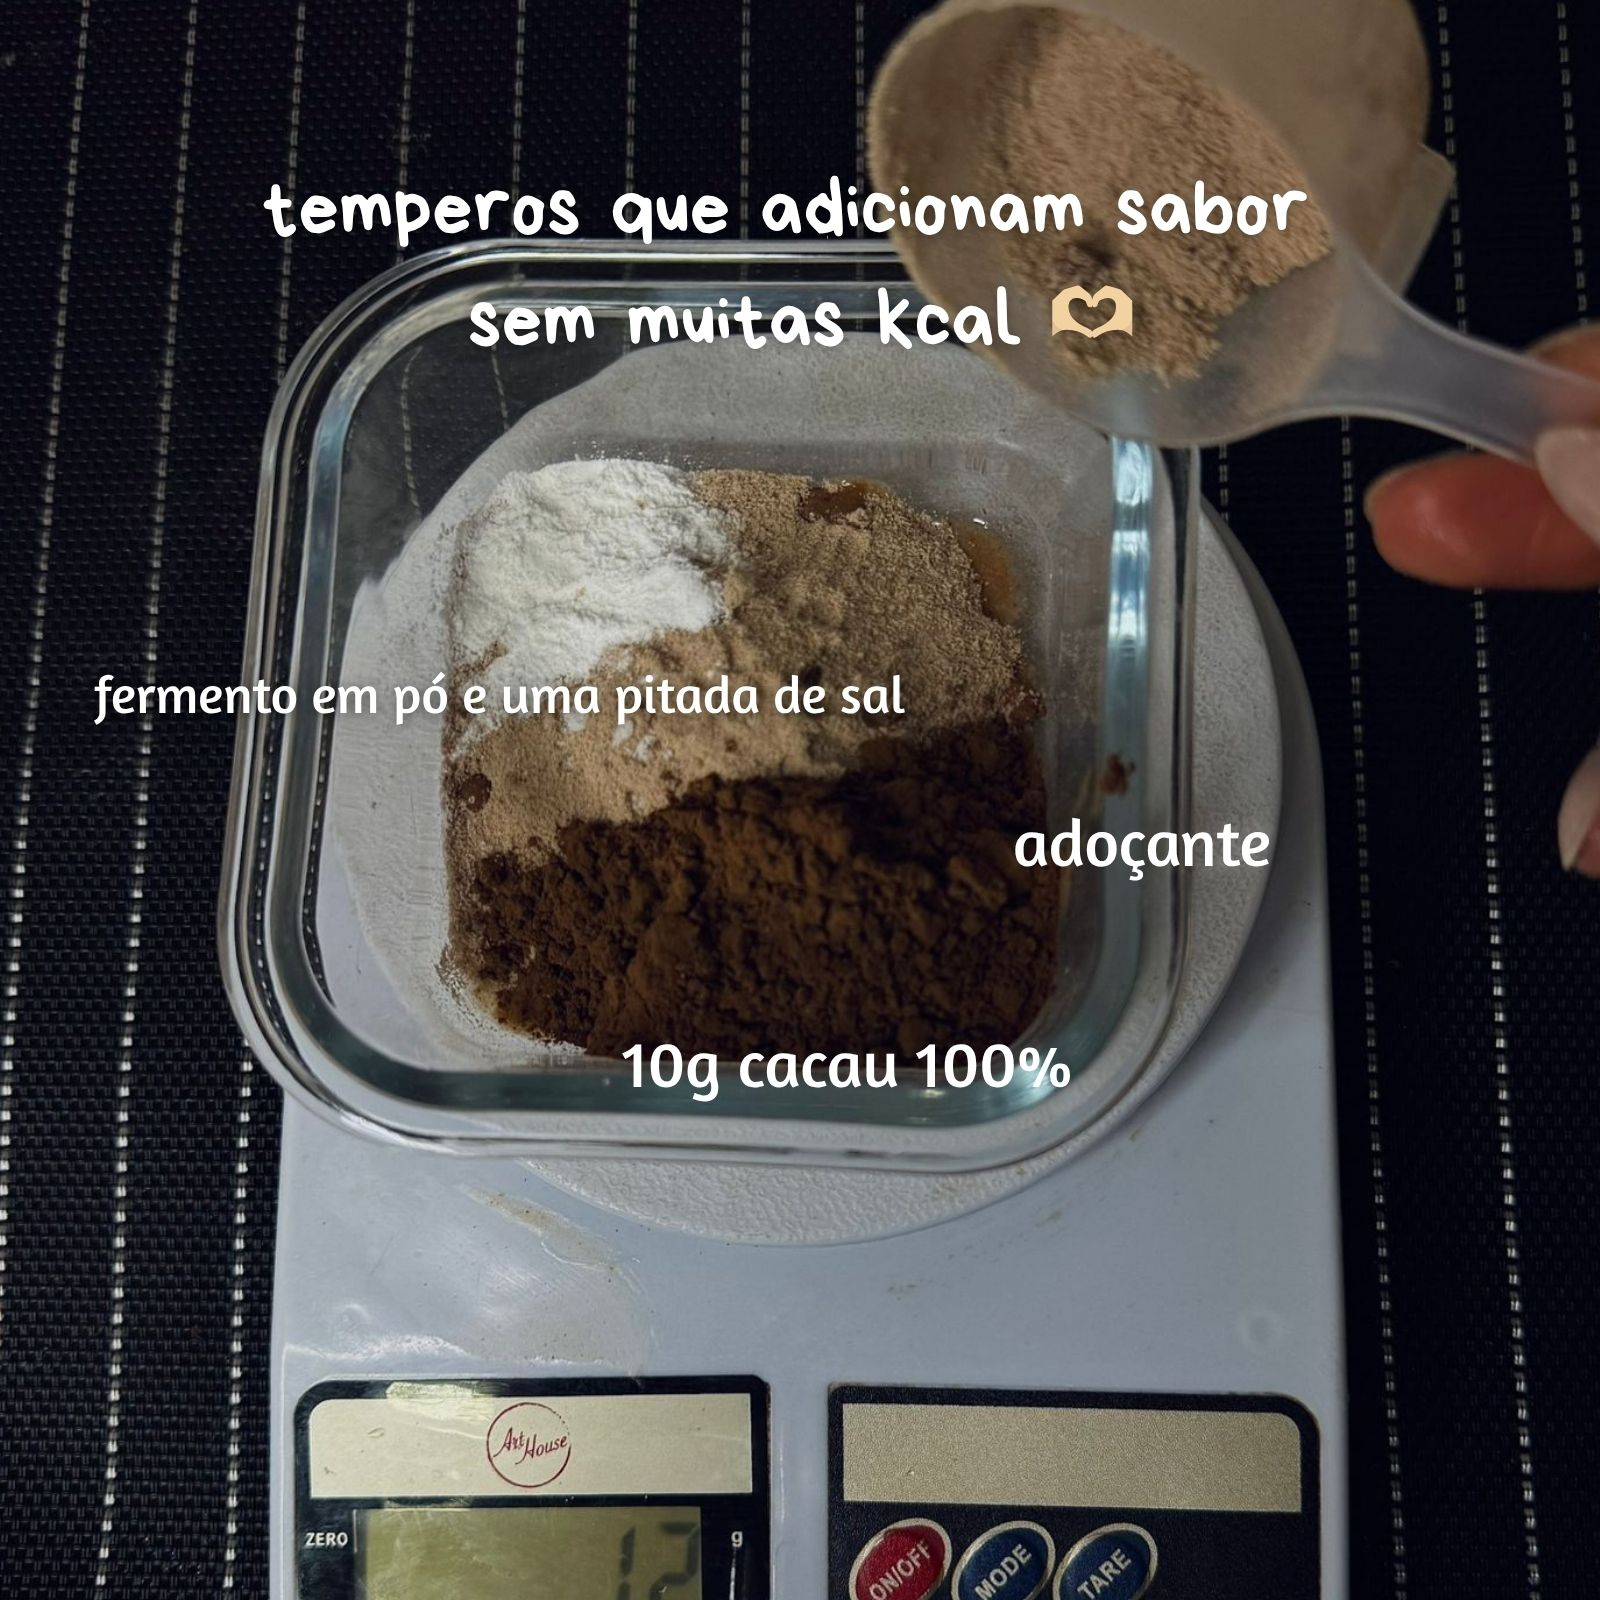
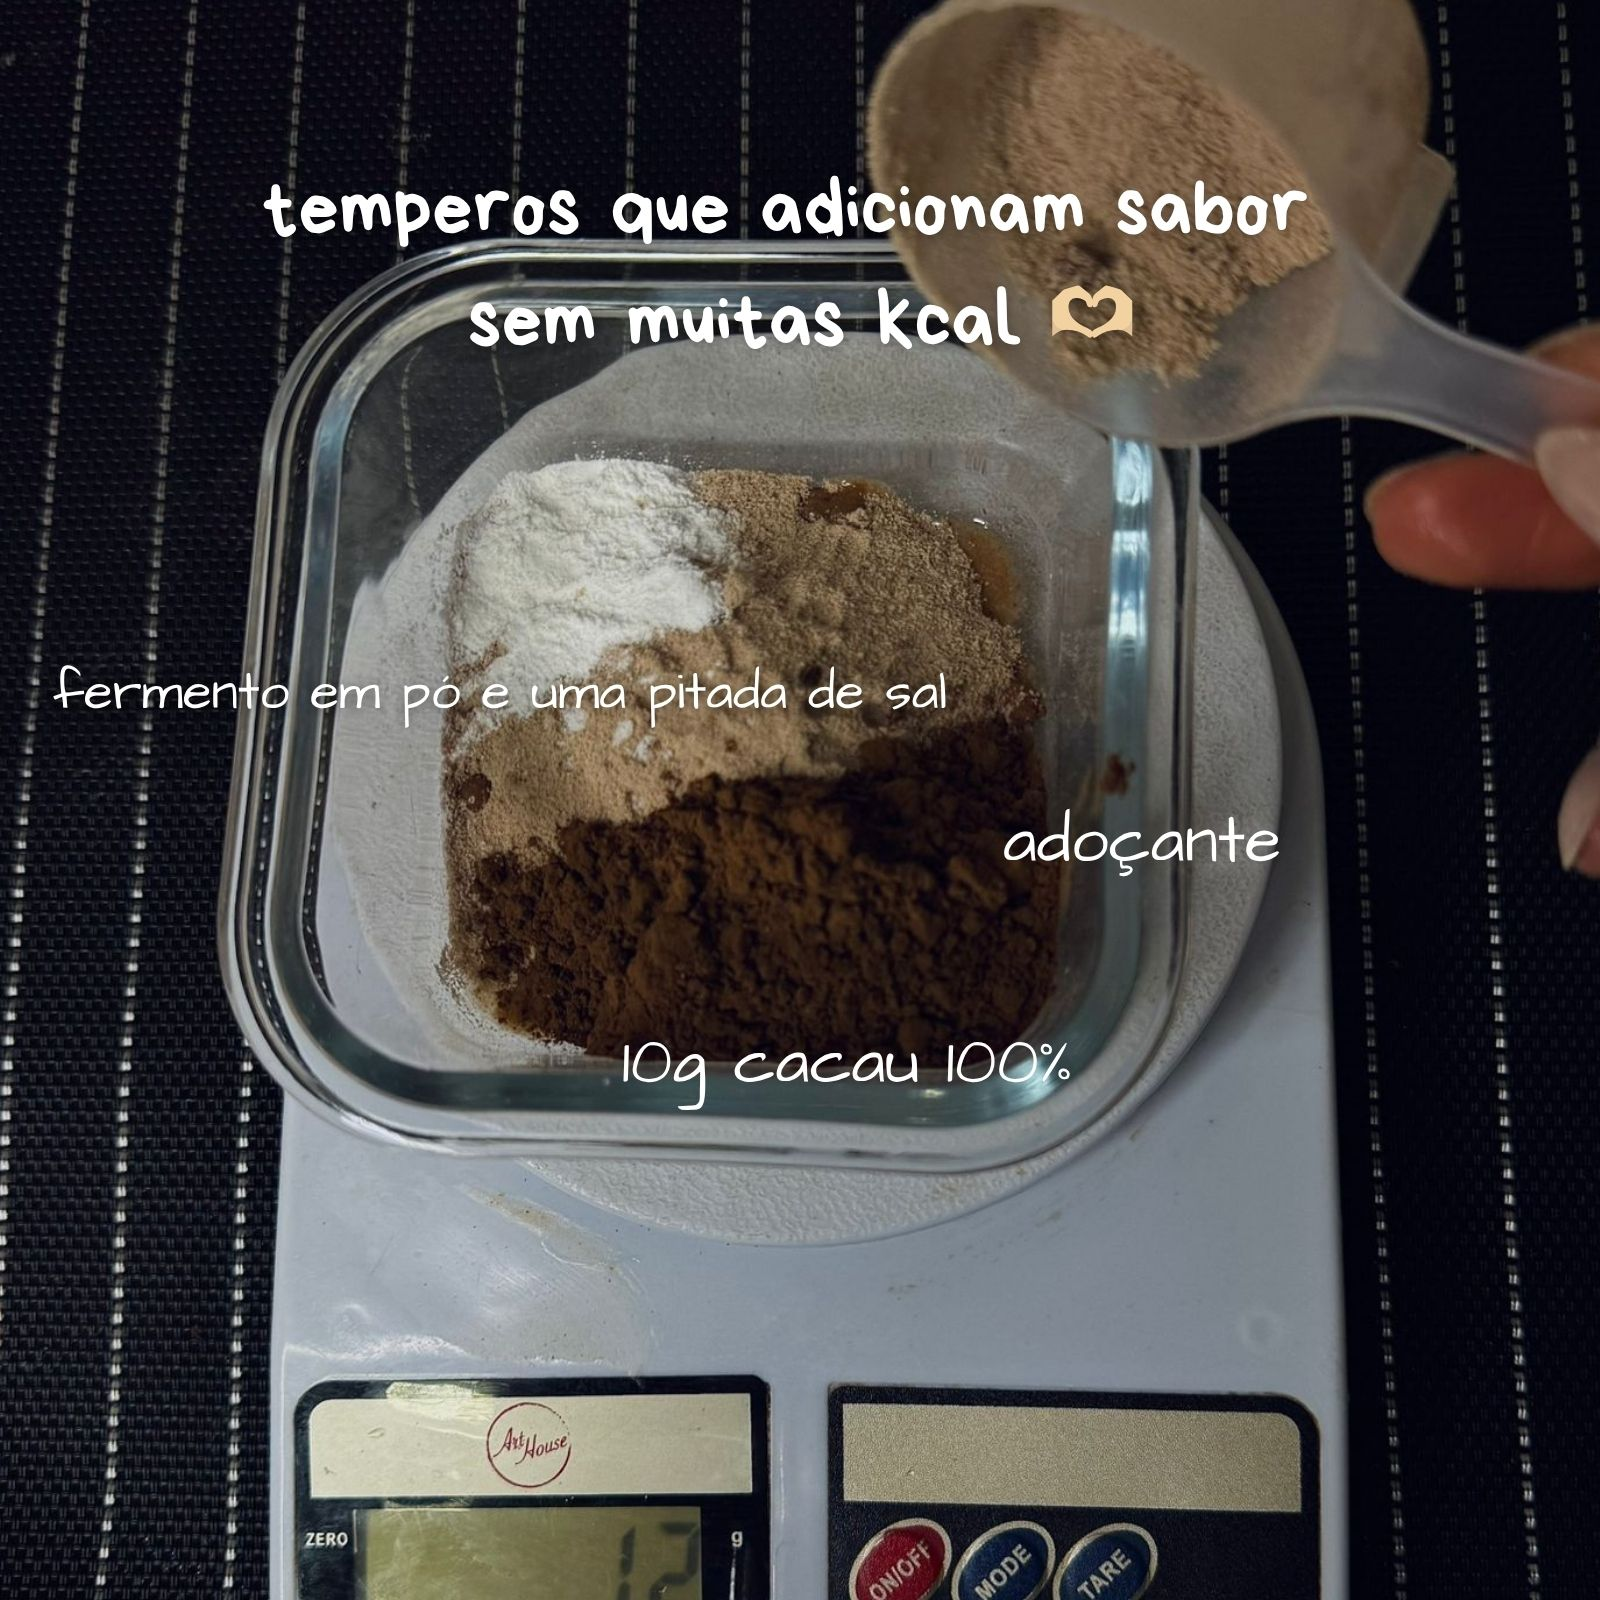
responsividade

Changed region(s): [[0.0312, 0.4062, 0.5938, 0.4688], [0.625, 0.5, 0.8125, 0.5625], [0.375, 0.6562, 0.6875, 0.6875]]

diff --git a/style.css b/style.css
@@ -1,5 +1,5 @@
 @import url('https://fonts.googleapis.com/css2?family=Lobster&family=M+PLUS+Rounded+1c&family=Montserrat:wght@400;600;700&display=swap');
-
+@import url('https://fonts.googleapis.com/css2?family=Edu+NSW+ACT+Hand+Pre:wght@400..700&family=Edu+SA+Hand:wght@400..700&family=Edu+VIC+WA+NT+Hand:wght@400..700&family=Indie+Flower&display=swap');
 /* ===== VARIÁVEIS DE COR ===== */
 :root {
   --marrom-claro: #a8857d;
@@ -78,12 +78,26 @@ body {
 }
 
 .cartao-receita p {
+  font-family: "Edu NSW ACT Hand Pre", cursive;
   font-size: 1rem;
-  color: #f4f4f4;
+  color: var(--marrom-terra);
   text-align: center;
-  padding: 1rem;
+  padding: 0.7rem 1.2rem;
   font-weight: 400;
-  margin: 0 auto;           /*largura do nome la no card*/
+  margin: 0 auto;
+  max-width: 80%;
+  background: rgba(168, 133, 125, 0.15); /* marrom-claro com transparência suave */
+  border-radius: 12px;
+  box-shadow: 0 4px 8px rgba(168, 133, 125, 0.2); /* sombra leve e suave */
+  letter-spacing: 0.04em;
+  line-height: 1.4;
+  transition: background 0.3s ease, color 0.3s ease;
+}
+
+.cartao-receita p:hover {
+  color: var(--verde-escuro)
+  background: rgba(164, 139, 131, 0.3);
+  cursor: default;
 }
 
 /* ===== MODAL ===== */
@@ -128,13 +142,11 @@ body {
 
 .conteudo-modal img {
   width: 100%;
-  max-width: 350px;            /* limita a largura da imagem */
-  aspect-ratio: 1 / 1;
-  object-fit: cover;
+  max-width: 100%;
+  height: auto;
+  object-fit: contain; /* Evita cortes */
   border-radius: 12px;
   margin-bottom: 1rem;
-  transition: opacity 0.3s ease;
-  
 }
 
 .conteudo-modal h3 {
@@ -379,8 +391,8 @@ h2::after {
 /* LINKS */
 .grade-links {
   display: flex;
-  flex-wrap: wrap;
   justify-content: center;
+  flex-wrap: wrap;
   gap: 20px;
   padding: 2rem 1rem;
 }
@@ -474,12 +486,13 @@ h2::after {
   }
 
   .conteudo-modal {
-    padding: 1rem 0.8rem;
+    padding: 0.5rem;
     max-width: 95%;
   }
 
   .conteudo-modal img {
-    max-width: 100%;
+    max-height: 80vh;
+    object-fit: contain;
   }
 
   .descricao,
@@ -521,7 +534,7 @@ h2::after {
 
 
 /* === RESPONSIVIDADE GERAL === */
-@media (max-width: 768px) {
+@media (max-width: 480px) {
 
   .titulo {
     font-size: 2rem;
@@ -542,12 +555,26 @@ h2::after {
   }
 
   .conteudo-modal {
-    padding: 1rem 0.8rem;
-    max-width: 95%;
+    max-width: 90vw;        /* Reduz largura */
+    max-height: 80vh;       /* Reduz altura */
+    padding: 0.8rem;        /* Menos espaço interno */
   }
 
   .conteudo-modal img {
     max-width: 100%;
+  }
+
+  .conteudo-modal h3 {
+    font-size: 0.9rem;
+  }
+
+  .conteudo-modal p {
+    font-size: 0.9rem;
+  }
+
+  .controles button {
+    padding: 0.5rem;
+    font-size: 0.85rem;
   }
 
   .descricao,
@@ -573,35 +600,40 @@ h2::after {
   .controles button {
     width: 100%;
   }
+
+.navbar {
+  flex-direction: row;
+  justify-content: space-between;
+  align-items: center;
+  padding: 0.5rem 1rem;
 }
 
-/* Para telas MUITO pequenas tipo celular antigo */
-@media (max-width: 480px) {
-  .titulo {
-    font-size: 1.6rem;
-  }
+.menu {
+  display: flex;
+  gap: 0.6rem;
+  flex-wrap: nowrap;
+}
 
-  .destaque {
-    font-size: 1.5rem;
-  }
+.menu a {
+  margin: 0;
+  font-size: 0.85rem;
+}
 
-  .descricao,
-  .aviso-receitas {
-    font-size: 0.85rem;
-  }
+.botao-compras {
+  font-size: 0.8rem;
+  padding: 6px 10px;
+  border-radius: 16px;
+}
+.modal-compras {
+  align-items: center;
+  justify-content: center;
+  padding: 1rem;
+}
 
-  .navbar {
-    padding: 0.5rem 1rem;
-  }
-
-  .menu a {
-    margin: 0.5rem;
-  }
-
-  .botao-fechar {
-    top: 8px;
-    right: 8px;
-    font-size: 0.9rem;
-    padding: 0.3rem 0.6rem;
-  }
+.conteudo-compras {
+  padding: 1rem;
+  width: 90%;
+  max-height: 85vh;
+  margin: auto;
+  box-sizing: border-box;
 }

diff --git a/script.js b/script.js
@@ -338,6 +338,28 @@ const categorias = {
           }
         ]
       },
+      {
+        nome: "Crepioca Agridoce",
+        capa: "imagens/crepiocadoce.jpeg",
+        calorias: 305,
+        etapas: [
+          {
+            titulo: "Crepioca AgriDoce",
+            ingredientes: [ "20g Tapioca", "1 ovo", "15g de Doce de leite", "Banana (50g)", "20g Mussarela",],
+            imagem: "imagens/crepiocadoce.jpeg"
+          },
+          {
+            titulo: "Preparo",
+            texto: "Em um recipiente, misture a tapioca, os ovos e o sal. Em uma frigideira, coloque uma fatia de mussarela e, por cima, despeje a mistura. Tampe a frigideira e deixe cozinhar até firmar.",
+            imagem: "imagens/mingau2.jpeg"
+          },
+          {
+            titulo: "Finalizaçāo",
+            texto: "Finalize com recheio de doce de leite e bananas em rodelas. Caso prefira evitar o agridoce, basta não adicionar o recheio.",
+            imagem: "imagens/mingau3.jpeg"
+          }
+        ]
+      },
     ],
   
 
@@ -490,7 +512,7 @@ const categorias = {
     },
     {
       nome: "Brownie",
-      capa: "imagens/brownie.jpeg",
+      capa: "imagens/brownie.png",
       calorias: 270,
       etapas: [
         {
@@ -553,23 +575,43 @@ const categorias = {
       ]
     },
     {
-      nome: "Crepioca Agridoce",
-      capa: "imagens/crepiocadoce.jpeg",
-      calorias: 305,
+      nome: "Picolé Proteico",
+      capa: "imagens/forminhapicole.png",
+      calorias: 355,
       etapas: [
         {
-          titulo: "Crepioca AgriDoce",
-          ingredientes: [ "20g Tapioca", "1 ovo", "15g de Doce de leite", "Banana (50g)", "20g Mussarela",],
-          imagem: "imagens/crepiocadoce.jpeg"
+          titulo: "Picolé Proteico",
+          ingredientes: [ "170ml Iogurte natural (desnatado)", "30g Whey", "20g Doce de leite", "Opcional: 20g de chocolate 70%"],
+          imagem: "imagens/bowliogurte.jpeg"
         },
         {
           titulo: "Preparo",
-          texto: "Em um recipiente, misture a tapioca, os ovos e o sal. Em uma frigideira, coloque uma fatia de mussarela e, por cima, despeje a mistura. Tampe a frigideira e deixe cozinhar até firmar.",
+          texto: "",
+          imagem: "imagens/mingau2.jpeg"
+        },
+        {
+          titulo: "Preparo",
+          texto: "",
+          imagem: "imagens/mingau2.jpeg"
+        },
+        {
+          titulo: "Preparo",
+          texto: "",
+          imagem: "imagens/mingau2.jpeg"
+        },
+        {
+          titulo: "Preparo",
+          texto: "",
+          imagem: "imagens/mingau2.jpeg"
+        },
+        {
+          titulo: "Preparo",
+          texto: "A porçāo toda: aprox; 355kcal com chocolate. Sem chocolate 245kcal.",
           imagem: "imagens/mingau2.jpeg"
         },
         {
           titulo: "Finalizaçāo",
-          texto: "Finalize com recheio de doce de leite e bananas em rodelas. Caso prefira evitar o agridoce, basta não adicionar o recheio.",
+          texto: "Porçāo por picolé com chocolate: 118kcal e Sem Chocolate: 82kcal",
           imagem: "imagens/mingau3.jpeg"
         }
       ]

diff --git a/index.html b/index.html
@@ -100,6 +100,15 @@
     <p>Mini Máquina</p>
     <a href="https://shopee.com.br/exemplo-link" target="_blank" class="botao-link">Ver Produto</a>
   </div>
+
+
+<div class="card-link">
+  <img src="imagens/forminhapicole.png" alt="Produto Shopee">
+  <p>Forma para sorvete</p>
+  <a href="https://shopee.com.br/exemplo-link" target="_blank" class="botao-link">Ver Produto</a>
+</div>
+
+
 </div>
 
   <footer class="rodape">
